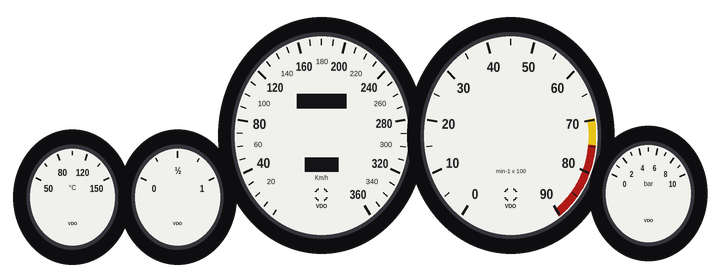
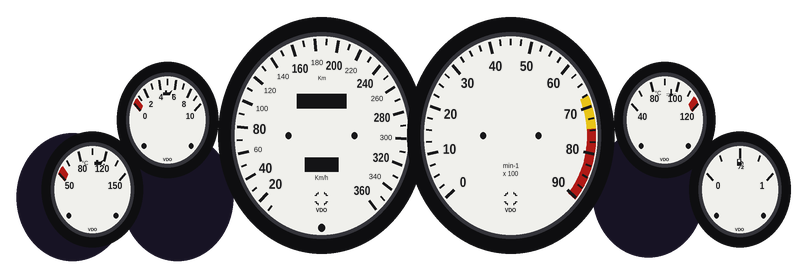
Diablo: quadro VDO refeito pela foto do carro real (v0.21.2)
Quatro relógios pequenos em escada com eixo abaixo do centro, conta-giros de 260°,
números do velocímetro como no original, rabicho preto e miolo grande nos ponteiros.

Claude-Session: https://claude.ai/code/session_01MLD9VR7gkmY4w6a9beZcp6

diff --git a/src/cockpit.ts b/src/cockpit.ts
@@ -62,6 +62,7 @@ interface CockpitArt {
   needle: string;
   needleW?: number; // espessura do ponteiro (padrão 1 px)
   needleTail?: number; // contrapeso do ponteiro, além do eixo (px)
+  needleTailCol?: string; // cor do contrapeso (padrão: a do ponteiro)
   hub: string;
   aux: Aux[];
   hubR?: number; // raio do miolo redondo dos ponteiros grandes
@@ -185,23 +186,22 @@ COCKPIT_ART.patrol = {
 };
 
 // Toro V12 (Diablo): interior novo do Victor (com e sem volante, tools/ref/diablo_cockpit.py) e o
-// quadro VDO da foto do carro real (tools/ref/diablo_gauges.py): fundos brancos, velocímetro 0-360
-// com hodômetros, conta-giros 0-90 (× 100) com faixa amarela e vermelha, temperatura do óleo,
-// combustível e pressão do óleo; ponteiros laranja
+// quadro VDO da foto do carro real (tools/ref/diablo_gauges.py): fundos brancos, velocímetro 20-360
+// com hodômetros, conta-giros 0-90 (× 100) varrendo 260° com faixa amarela e vermelha, e quatro
+// relógios pequenos em escada (pressão e temperatura do óleo à esquerda, água e gasolina à direita)
+// com o eixo abaixo do centro e arco de 90°; ponteiros laranja com rabicho preto e miolo grande
+const DEG = Math.PI / 180;
+const DIA_SMALL: [number, number, Gauge][] = [[67.9, 42, 'oil'], [49.1, 59.4, 'oiltemp'], [192.2, 42, 'water'], [211, 59.4, 'fuel']];
 COCKPIT_ART.diablo = {
   glass: { at: [60, 160], thr: 256 }, tells: [130, 30],
   dash: cp('diablo-dash'), top: cp('diablo-top'), wheel: cp('diablo-wheel'),
-  pivot: [128, 112], wheelTop: 8, radar: [196, 6], speedMax: 360, needle: '#f5961c', needleW: 1.6, needleTail: 3, needleFine: true, hub: '#151517', hubR: 2.6,
-  faces: [{ src: cp('diablo-cluster'), x: 26.5, y: 12.5, w: 180, h: 68 }],
+  pivot: [128, 112], wheelTop: 8, radar: [196, 6], speedMax: 360, needle: '#f5961c', needleW: 1.6, needleTail: 5, needleTailCol: '#141416', needleFine: true, hub: '#151517', hubR: 3.4,
+  faces: [{ src: cp('diablo-cluster'), x: 26.5, y: 12.5, w: 202, h: 68 }],
   // à noite os fundos brancos acendem (luz por trás) e os ponteiros laranja também
   facesLit: '255,240,215', litNeedles: true, glow: '255,230,190', glowK: 0.3,
-  speed: { x: 106.4, y: 45.9, r: 21.4, max: 360, labels: [], tick: 20, red: 999, face: false, a0: 125 * (Math.PI / 180), sweep: 290 * (Math.PI / 180) },
-  tach: { x: 153.7, y: 45.9, r: 21.4, max: 9, labels: [], tick: 1, red: 999, face: false, a0: 125 * (Math.PI / 180), sweep: 290 * (Math.PI / 180) },
-  aux: [
-    { x: 44.1, y: 61.3, r: 8.4, kind: 'single', show: ['oiltemp'], arc: [205 * (Math.PI / 180), 335 * (Math.PI / 180)], needleOnly: true },
-    { x: 70.4, y: 61.3, r: 8.4, kind: 'single', show: ['fuel'], arc: [205 * (Math.PI / 180), 335 * (Math.PI / 180)], needleOnly: true },
-    { x: 188.1, y: 60.4, r: 8.4, kind: 'single', show: ['oil'], arc: [205 * (Math.PI / 180), 335 * (Math.PI / 180)], needleOnly: true },
-  ],
+  speed: { x: 106.4, y: 45.9, r: 21.4, max: 360, labels: [], tick: 20, red: 999, face: false, a0: 121 * DEG, sweep: 289 * DEG },
+  tach: { x: 153.7, y: 45.9, r: 21.4, max: 9, labels: [], tick: 1, red: 999, face: false, a0: 140 * DEG, sweep: 260 * DEG },
+  aux: DIA_SMALL.map(([x, y, k]) => ({ x, y: y + 0.5 * 9.5 * (8 / 7), r: 10, kind: 'single' as const, show: [k], arc: [225 * DEG, 315 * DEG] as [number, number], needleOnly: true })),
   extra: (c, ox, r) => {
     odometer(c, ox, r, { x: 100.4, y: 35.7, w: 12, h: 3.5 }, 30414, 6, 0.5);
     odometer(c, ox, r, { x: 102.4, y: 51.4, w: 8, h: 3.5 }, 128.4, 4, 0.5, true);
@@ -1287,7 +1287,7 @@ function dialNeedle(c: CanvasRenderingContext2D, d: Dial, ox: number, frac: numb
 // ponteiro: do centro exato, traçado em meio pixel (1 px de espessura)
 // ponteiro fino e afinado (arte com mostradores em alta resolução): polígono suavizado, com a
 // sombra leve no fundo, rabicho e miolo redondo com brilho
-function fineNeedle(c: CanvasRenderingContext2D, x: number, y: number, len: number, a: number, w: number, color: string, hub: string, hubR: number, tail: number) {
+function fineNeedle(c: CanvasRenderingContext2D, x: number, y: number, len: number, a: number, w: number, color: string, hub: string, hubR: number, tail: number, tailCol?: string) {
   const ca = Math.cos(a), sa = Math.sin(a) * PIX_Y, px = -Math.sin(a), py = Math.cos(a) * PIX_Y;
   const poly = (ox: number, oy: number, col: string) => {
     c.fillStyle = col;
@@ -1301,6 +1301,17 @@ function fineNeedle(c: CanvasRenderingContext2D, x: number, y: number, len: numb
   };
   poly(0.6, 0.8, 'rgba(0,0,0,0.22)');
   poly(0, 0, color);
+  if (tailCol && tail > 0) {
+    // contrapeso de outra cor (o Diablo tem o rabicho preto)
+    c.fillStyle = tailCol;
+    c.beginPath();
+    c.moveTo(x - ca * tail + px * w * 0.55, y - sa * tail + py * w * 0.55);
+    c.lineTo(x + px * w * 0.45, y + py * w * 0.45);
+    c.lineTo(x - px * w * 0.45, y - py * w * 0.45);
+    c.lineTo(x - ca * tail - px * w * 0.55, y - sa * tail - py * w * 0.55);
+    c.closePath();
+    c.fill();
+  }
   c.fillStyle = 'rgba(255,255,255,0.28)';
   c.beginPath();
   c.moveTo(x - ca * tail + px * w * 0.45, y - sa * tail + py * w * 0.45);
@@ -1320,7 +1331,7 @@ function fineNeedle(c: CanvasRenderingContext2D, x: number, y: number, len: numb
 }
 
 function needle(c: CanvasRenderingContext2D, cx: number, cy: number, r: number, a: number, art: CockpitArt) {
-  if (art.needleFine) return fineNeedle(c, cx + 0.5, cy + 0.5, r - 2, a, art.needleW ?? 2, art.needle, art.hub, art.hubR ?? 2.5, art.needleTail ?? 3);
+  if (art.needleFine) return fineNeedle(c, cx + 0.5, cy + 0.5, r - 2, a, art.needleW ?? 2, art.needle, art.hub, art.hubR ?? 2.5, art.needleTail ?? 3, art.needleTailCol);
   const len = r - 2.5;
   const ca = Math.cos(a), sa = Math.sin(a) * PIX_Y;
   const w = art.needleW ?? 1;

diff --git a/tools/ref/diablo_gauges.py b/tools/ref/diablo_gauges.py
@@ -1,8 +1,12 @@
 """Quadro VDO do Toro V12 (Lamborghini Diablo), copiando a foto do quadro real que o Victor enviou:
-fundos brancos, marcações e números pretos em grotesca negrita, velocímetro 0-360 km/h com os
-hodômetros, conta-giros 0-90 (min-1 x100) com faixa amarela de 70 a 75 e vermelha de 75 a 90,
-temperatura do óleo 50-150 °C, combustível 0-½-1 e pressão do óleo 0-10 bar, "VDO" em cada um e o
-touro da marca trocado pelo escudo da Toro (só contorno). Posições da arte da cabine (diablo_cockpit.py).
+fundos brancos, marcações e números pretos em grotesca negrita, velocímetro 20-360 km/h (números
+grandes em 20, 40, 80 e de 160 em diante de 40 em 40, pequenos nos outros) com os hodômetros e "Km",
+conta-giros 0-90 (min-1 x 100) varrendo 260° com faixa amarela de 68 a 75 e vermelha de 75 a 90, e
+quatro relógios pequenos em escada como no carro: pressão do óleo 0-10 (em cima) e temperatura do
+óleo 50-150 °C (embaixo) à esquerda, temperatura da água 40-120 °C (em cima) e combustível 0-½-1
+(embaixo) à direita, com o eixo abaixo do centro e arco de 90°. "VDO" em cada um e o touro trocado
+pelo escudo da Toro (só contorno). Os relógios pequenos da arte (outras posições) são apagados com a
+cor do fundo do painel.
 O jogo desenha os ponteiros laranja. Saída em 4 px por pixel do jogo.
 Uso: python3 tools/ref/diablo_gauges.py <src/assets/cockpit>
 """
@@ -18,17 +22,21 @@ ROOT = os.path.join(os.path.dirname(__file__), '..', '..')
 K = 12
 KO = 4
 PY = 8 / 7
-X0, Y0, X1, Y1 = 26, 12, 206, 80
+X0, Y0, X1, Y1 = 26, 12, 228, 80
 FB = '/usr/share/fonts/truetype/liberation/LiberationSans-Bold.ttf'
 FR = '/usr/share/fonts/truetype/liberation/LiberationSans-Regular.ttf'
 INK = (24, 24, 26)
 FACE = (240, 240, 236)
-SPEED = dict(x=106.4, y=45.9, r=21.7, a0=125, sweep=290, max=360)
-TACH = dict(x=153.7, y=45.9, r=21.7, a0=125, sweep=290, max=90)
-SMALL = [dict(x=44.1, y=61.3, r=10.6, labels=['50', '80', '120', '150'], unit='°C'),
-         dict(x=70.4, y=61.3, r=10.6, labels=['0', '½', '1'], unit=''),
-         dict(x=188.1, y=60.4, r=10.6, labels=['0', '2', '4', '6', '8', '10'], unit='bar')]
-A0S, A1S = 205, 335
+SPEED = dict(x=106.4, y=45.9, r=21.7, a0=121, sweep=289, max=360)
+TACH = dict(x=153.7, y=45.9, r=21.7, a0=140, sweep=260, max=90)
+RS = 9.5  # raio dos pequenos; o eixo fica meio raio abaixo do centro
+SMALL = [dict(x=67.9, y=42.0, labels=['0', '2', '4', '6', '8', '10'], red=(0, 0.06), icon='oil', unit=''),
+         dict(x=49.1, y=59.4, labels=['50', '80', '120', '150'], red=(0, 0.08), icon='oil', unit='°C'),
+         dict(x=192.2, y=42.0, labels=['40', '80', '100', '120'], red=(0.92, 1), icon='water', unit='°C'),
+         dict(x=211.0, y=59.4, labels=['0', '½', '1'], red=None, icon='fuel', unit='')]
+OLD = [(44.1, 61.3), (70.4, 61.3), (188.1, 60.4)]  # relógios pequenos da arte, apagados
+RECESS = (23, 19, 36)
+A0S, A1S = 225, 315
 W, H = (X1 - X0) * K, (Y1 - Y0) * K
 LABELS = []
 
@@ -82,27 +90,31 @@ def shield(im, x, y, s):
     im.paste(INK, (int(x - s / 2), int(y - s / 2)), Image.fromarray((edge * 255).astype(np.uint8)))
 
 
-def bezel(d, al, g, r):
-    ell(d, g, r + 4.2, fill=(14, 14, 16))
+def bezel(d, al, g, r, th=4.2):
+    ell(d, g, r + th, fill=(14, 14, 16))
     ell(d, g, r + 0.9, fill=(52, 52, 58))
     ell(d, g, r, fill=FACE)
     x, y = P(g['x'], g['y'])
-    ImageDraw.Draw(al).ellipse([x - (r + 4.2) * K, y - (r + 4.2) * K * PY, x + (r + 4.2) * K, y + (r + 4.2) * K * PY], fill=255)
+    ImageDraw.Draw(al).ellipse([x - (r + th) * K, y - (r + th) * K * PY, x + (r + th) * K, y + (r + th) * K * PY], fill=255)
 
 
-def big(im, d, al, g, majors, minors, step, bands=()):
+def dot(d, g, dx, dy, rr, col=INK):
+    ell(d, dict(x=g['x'] + dx, y=g['y'] + dy * PY), rr, fill=col)
+
+
+def big(im, d, al, g, majors, minors, step, major_step, bands=(), dots=0.38):
     bezel(d, al, g, g['r'])
     fr = lambda v: g['a0'] + g['sweep'] * v / g['max']
     for v0, v1, col in bands:
         for k in range(60):
             v = v0 + (v1 - v0) * k / 59
-            tick(d, g, fr(v), g['r'] - 2.2, g['r'] - 0.4, 0.8, col)
-    v = 0.0
+            tick(d, g, fr(v), g['r'] - 2.6, g['r'] - 0.4, 0.8, col)
+    v = float(g.get('min', 0))
     while v <= g['max'] + 1e-6:
-        if any(abs(v - m) < 1e-6 for m in majors):
-            tick(d, g, fr(v), g['r'] - 3.0, g['r'] - 0.5, 0.55)
+        if abs(v / major_step - round(v / major_step)) < 1e-6:
+            tick(d, g, fr(v), g['r'] - 3.2, g['r'] - 0.5, 0.75)
         else:
-            tick(d, g, fr(v), g['r'] - 1.9, g['r'] - 0.5, 0.36)
+            tick(d, g, fr(v), g['r'] - 1.9, g['r'] - 0.5, 0.5)
         v += step
     for L in majors:
         x, y = at(g, fr(L), g['r'] - 6.0)
@@ -110,27 +122,67 @@ def big(im, d, al, g, majors, minors, step, bands=()):
     for L in minors:
         x, y = at(g, fr(L), g['r'] - 5.6)
         label(str(L), x, y, 2.1, font=FR, squeeze=0.9)
-    x, y = P(g['x'], g['y'] + g['r'] * 0.62 * PY)
+    for sx in (-1, 1):
+        dot(d, g, sx * dots * g['r'], 0, 0.75)
+    x, y = P(g['x'], g['y'] + g['r'] * 0.66 * PY)
     label('VDO', x, y + K * 2.2, 1.5)
     shield(im, x, y - K * 0.6, int(K * 3.4))
 
 
+def icon(d, cx, cy, kind):
+    """ícones pretos pequenos do topo (almotolia do óleo, termômetro com ondas, bomba de gasolina)"""
+    u = K * 0.45
+    if kind == 'oil':
+        d.polygon([(cx - 2.4 * u, cy - 0.4 * u), (cx + 0.8 * u, cy - 0.4 * u), (cx + 2.6 * u, cy - 1.6 * u), (cx + 1.2 * u, cy + 1.2 * u), (cx - 2.4 * u, cy + 1.2 * u)], fill=INK)
+        d.rectangle([cx - 1.4 * u, cy - 1.4 * u, cx - 0.4 * u, cy - 0.4 * u], fill=INK)
+        d.ellipse([cx + 2.6 * u, cy + 0.6 * u, cx + 3.2 * u, cy + 1.4 * u], fill=INK)
+    elif kind == 'water':
+        d.rectangle([cx - 0.35 * u, cy - 2.2 * u, cx + 0.35 * u, cy + 0.6 * u], fill=INK)
+        d.ellipse([cx - 0.9 * u, cy + 0.2 * u, cx + 0.9 * u, cy + 1.6 * u], fill=INK)
+        for k in (0, 1):
+            d.line([(cx - 2.6 * u, cy + (0.4 + k) * u), (cx - 1.4 * u, cy + (0.2 + k) * u), (cx + 1.4 * u, cy + (0.6 + k) * u), (cx + 2.6 * u, cy + (0.4 + k) * u)], fill=INK, width=max(1, int(0.35 * u)))
+    else:
+        d.rectangle([cx - 1.6 * u, cy - 2 * u, cx + 0.6 * u, cy + 1.6 * u], fill=INK)
+        d.rectangle([cx - 1.1 * u, cy - 1.5 * u, cx + 0.1 * u, cy - 0.5 * u], fill=FACE)
+        d.line([(cx + 0.6 * u, cy - 0.8 * u), (cx + 1.6 * u, cy - 0.2 * u), (cx + 1.6 * u, cy + 1.0 * u)], fill=INK, width=max(1, int(0.4 * u)))
+
+
 def small(im, d, al, g):
-    bezel(d, al, g, g['r'])
+    """relógio pequeno do Diablo: eixo meio raio abaixo do centro, marcações e números num arco de
+    90° (225° a 315°) que acompanha a borda de cima"""
+    g = dict(g, r=RS)
+    bezel(d, al, g, RS, 3.2)
+    pv = dict(x=g['x'], y=g['y'] + 0.5 * RS * PY)
+
+    def rim(ang):  # distância do eixo até a borda do mostrador nessa direção (unidades reais)
+        ux, uy = math.cos(math.radians(ang)), math.sin(math.radians(ang))
+        b = uy * 0.5 * RS
+        return -b + math.sqrt(b * b - (0.25 * RS * RS - RS * RS))
     n = len(g['labels'])
     steps = (n - 1) * 2
+    fr = lambda u: A0S + (A1S - A0S) * u
+    if g['red']:
+        u0, u1 = g['red']
+        for k in range(24):
+            a = fr(u0 + (u1 - u0) * k / 23)
+            e = rim(a) - 0.5
+            tick(d, pv, a, e - 2.2, e, 0.7, (176, 26, 22))
     for i in range(steps + 1):
-        a = A0S + (A1S - A0S) * i / steps
-        tick(d, g, a, g['r'] - (2.0 if i % 2 == 0 else 1.4), g['r'] - 0.5, 0.42 if i % 2 == 0 else 0.3)
+        a = fr(i / steps)
+        e = rim(a) - 0.5
+        tick(d, pv, a, e - (2.2 if i % 2 == 0 else 1.4), e, 0.6 if i % 2 == 0 else 0.45)
     for i, L in enumerate(g['labels']):
-        a = A0S + (A1S - A0S) * i / (n - 1)
-        x, y = at(g, a, g['r'] - 4.0)
-        label(L, x, y + K * 0.9, 2.5 if len(g['labels']) < 5 else 2.2, squeeze=0.85)
-    x, y = P(g['x'], g['y'] + g['r'] * 0.55 * PY)
+        a = fr(i / (n - 1))
+        x, y = at(pv, a, rim(a) - 4.3)
+        label(L, x, y, 2.6 if n < 5 else 2.3, squeeze=0.85)
+    for sx in (-1, 1):
+        dot(d, pv, sx * 0.62 * RS, 0.1 * RS, 0.6)
+    x, y = P(pv['x'], pv['y'] + 0.42 * RS * PY)
     label('VDO', x, y, 1.2)
+    x, y = P(g['x'] + (1.6 if g['unit'] else 0), g['y'] - 0.62 * RS * PY)
+    icon(d, x, y, g['icon'])
     if g['unit']:
-        x, y = P(g['x'], g['y'] - g['r'] * 0.2 * PY)
-        label(g['unit'], x, y, 1.8, font=FR)
+        label(g['unit'], x - K * 3.4, y, 1.7, font=FR)
 
 
 def main():
@@ -138,16 +190,27 @@ def main():
     im = Image.new('RGB', (W, H), FACE)
     al = Image.new('L', (W, H), 0)
     d = ImageDraw.Draw(im)
-    big(im, d, al, SPEED, list(range(40, 361, 40)), list(range(20, 341, 40)), 10)
-    big(im, d, al, TACH, list(range(0, 91, 10)), [], 5, ((70, 75, (232, 196, 24)), (75, 90, (176, 26, 22))))
+    # relógios pequenos da arte (fora das posições novas): cor do fundo do painel
+    for ox, oy in OLD:
+        ell(d, dict(x=ox, y=oy), 14.0, fill=RECESS)
+        x, y = P(ox, oy)
+        ImageDraw.Draw(al).ellipse([x - 14 * K, y - 14 * K * PY, x + 14 * K, y + 14 * K * PY], fill=255)
+    SPEED['min'] = 10
+    big(im, d, al, SPEED, [20, 40, 80, 160, 200, 240, 280, 320, 360], [60, 100, 120, 140, 180, 220, 260, 300, 340], 10, 20)
+    big(im, d, al, TACH, list(range(0, 91, 10)), [], 2.5, 10, ((68, 75, (232, 196, 24)), (75, 90, (176, 26, 22))), dots=0.32)
+    # botão do parcial, embaixo do velocímetro
+    dot(d, SPEED, 0, SPEED['r'] * 0.93, 0.9)
     # hodômetros (janelas pretas; os números o jogo desenha) e textos
     for (dy, w) in ((-0.42, 12.4), (0.22, 8.4)):
         x, y = P(SPEED['x'] - w / 2, SPEED['y'] + SPEED['r'] * dy * PY)
         d.rectangle([x, y, x + w * K, y + 3.6 * K], fill=(20, 20, 22))
     x, y = P(SPEED['x'], SPEED['y'] + SPEED['r'] * 0.42 * PY)
     label('Km/h', x, y, 1.7, font=FR)
-    x, y = P(TACH['x'], TACH['y'] + TACH['r'] * 0.36 * PY)
-    label('min-1 x 100', x, y, 1.6, font=FR)
+    x, y = P(SPEED['x'], SPEED['y'] - SPEED['r'] * 0.58 * PY)
+    label('Km', x, y, 1.6, font=FR)
+    x, y = P(TACH['x'], TACH['y'] + TACH['r'] * 0.3 * PY)
+    label('min-1', x, y, 1.8, font=FR)
+    label('x 100', x, y + K * 2.0, 1.8, font=FR)
     for g in SMALL:
         small(im, d, al, g)
     im = im.convert('RGBA')
